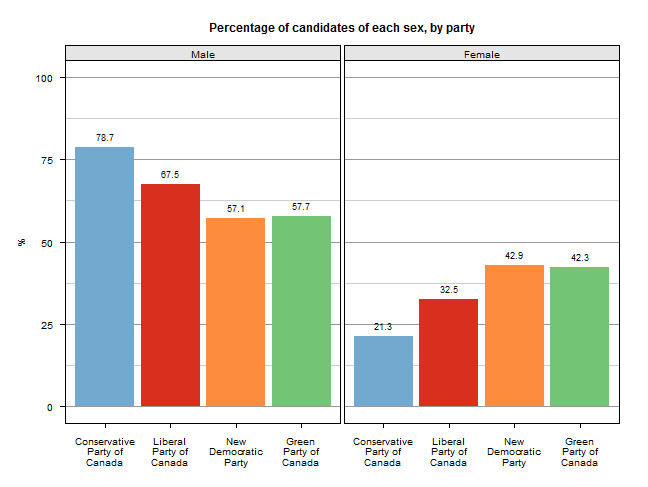
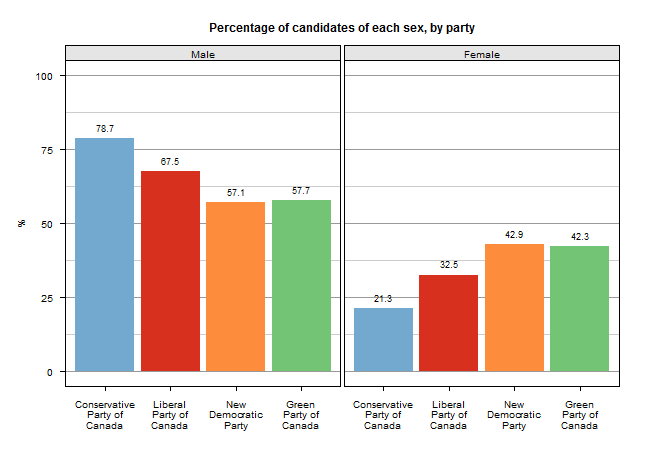
copyedits, resize fig 1

diff --git a/_posts/2015-10-13-gender.md b/_posts/2015-10-13-gender.md
@@ -5,23 +5,23 @@ title: Gender parity in the 2015 Canadian federal election
 
 There are 1,792 candidates from 25 political parties across 338 electoral districts participating in Canada's 2015 federal election. Of these candidates, 560, or 31.2%, are female.
 
-The presence of women in elected positions isn't the only indicator that women are adequately represented in government, but it is a pretty important one. How can political parties claim to speak for women if they don't count any women among their leaders? 
+The presence of women in elected positions isn't the only indicator that women are adequately represented in government, but it is a pretty important one. When the only way a party could be less inviting to women is by putting NO GIRLS ALLOWED on its campaign signs, it's hard to buy in to the notion that they're going to do a good job of speaking for women once in power.
 
-At a minimum, we would expect a party that treats men and women equally within its own ranks to advance male and female candidates for election in roughly even proportions. This is especially true when there are a large number of candidates up for election. However, it is far from the reality in Canada's 2015 federal election.  
+At a minimum, we would expect a party that treats men and women equally within its own ranks to advance male and female candidates for election in proportions that are at least in the neighbourhood of parity. This is especially true when there are a large number of candidates. However, it is far from the reality in the upcoming election.  
 
 From the four largest national parties <sub><sup>(Conservative, Liberal, NDP, and Green, in case you haven't had coffee today)</sup></sub>, there are 1,350 candidates, 469 of whom (34.7%) are female. 
 
 
 
-<img src="figure/fig1-1.png" title="plot of chunk fig1" style="display: block; max-width: 800px; margin: auto;" />
+<img src="figure/fig1-1.png" title="plot of chunk fig1" alt="plot of chunk fig1" style="display: block; margin: auto;" />
 
-In both the NDP and the Green Party, a respectable 42% of candidates are female - not too bad. By comparison, the Liberals look worse in this department, with about a third of their candidates being female. 
+In both the NDP and the Green Party, a 42% of candidates are female - not too bad. The Liberals fare worse by comparison, with about a third of their candidates being female. 
 
-The Conservatives bring up the rear, with an embarassingly low 21% of candidates being female. In absolute terms, the Conservatives have roughly half as many female candidates as the NDP and the Green Party, and a third as many as the Liberals.
+The Conservatives bring up the rear with an embarassingly low 21% of candidates being female. In absolute terms, the Conservatives have roughly half as many female candidates as the NDP and the Green Party, and a third as many as the Liberals.
 
 
 
-<img src="figure/fig2-1.png" title="plot of chunk fig2" style="display: block; max-width: 800px; margin: auto;" />
+<img src="figure/fig2-1.png" title="plot of chunk fig2" alt="plot of chunk fig2" style="display: block; margin: auto;" />
 
 In general, the provinces resemble each other pretty closely along this dimension, with women accounting for between 30 and 40 percent of candidates. Nova Scotia is a glaring exception, with only a fifth of candidates from these parties being female. That said, the figures in the low 30s observed in Saskatchewan, Ontario, and PEI are nothing to be proud of either.
 
@@ -31,4 +31,4 @@ For the sake of completeness, I include plots of female representation broken do
 
 
 
-<img src="figure/fig3-1.png" title="plot of chunk fig3" style="display: block; max-width: 800px; margin: auto;" />
+<img src="figure/fig3-1.png" title="plot of chunk fig3" alt="plot of chunk fig3" style="display: block; margin: auto;" />
